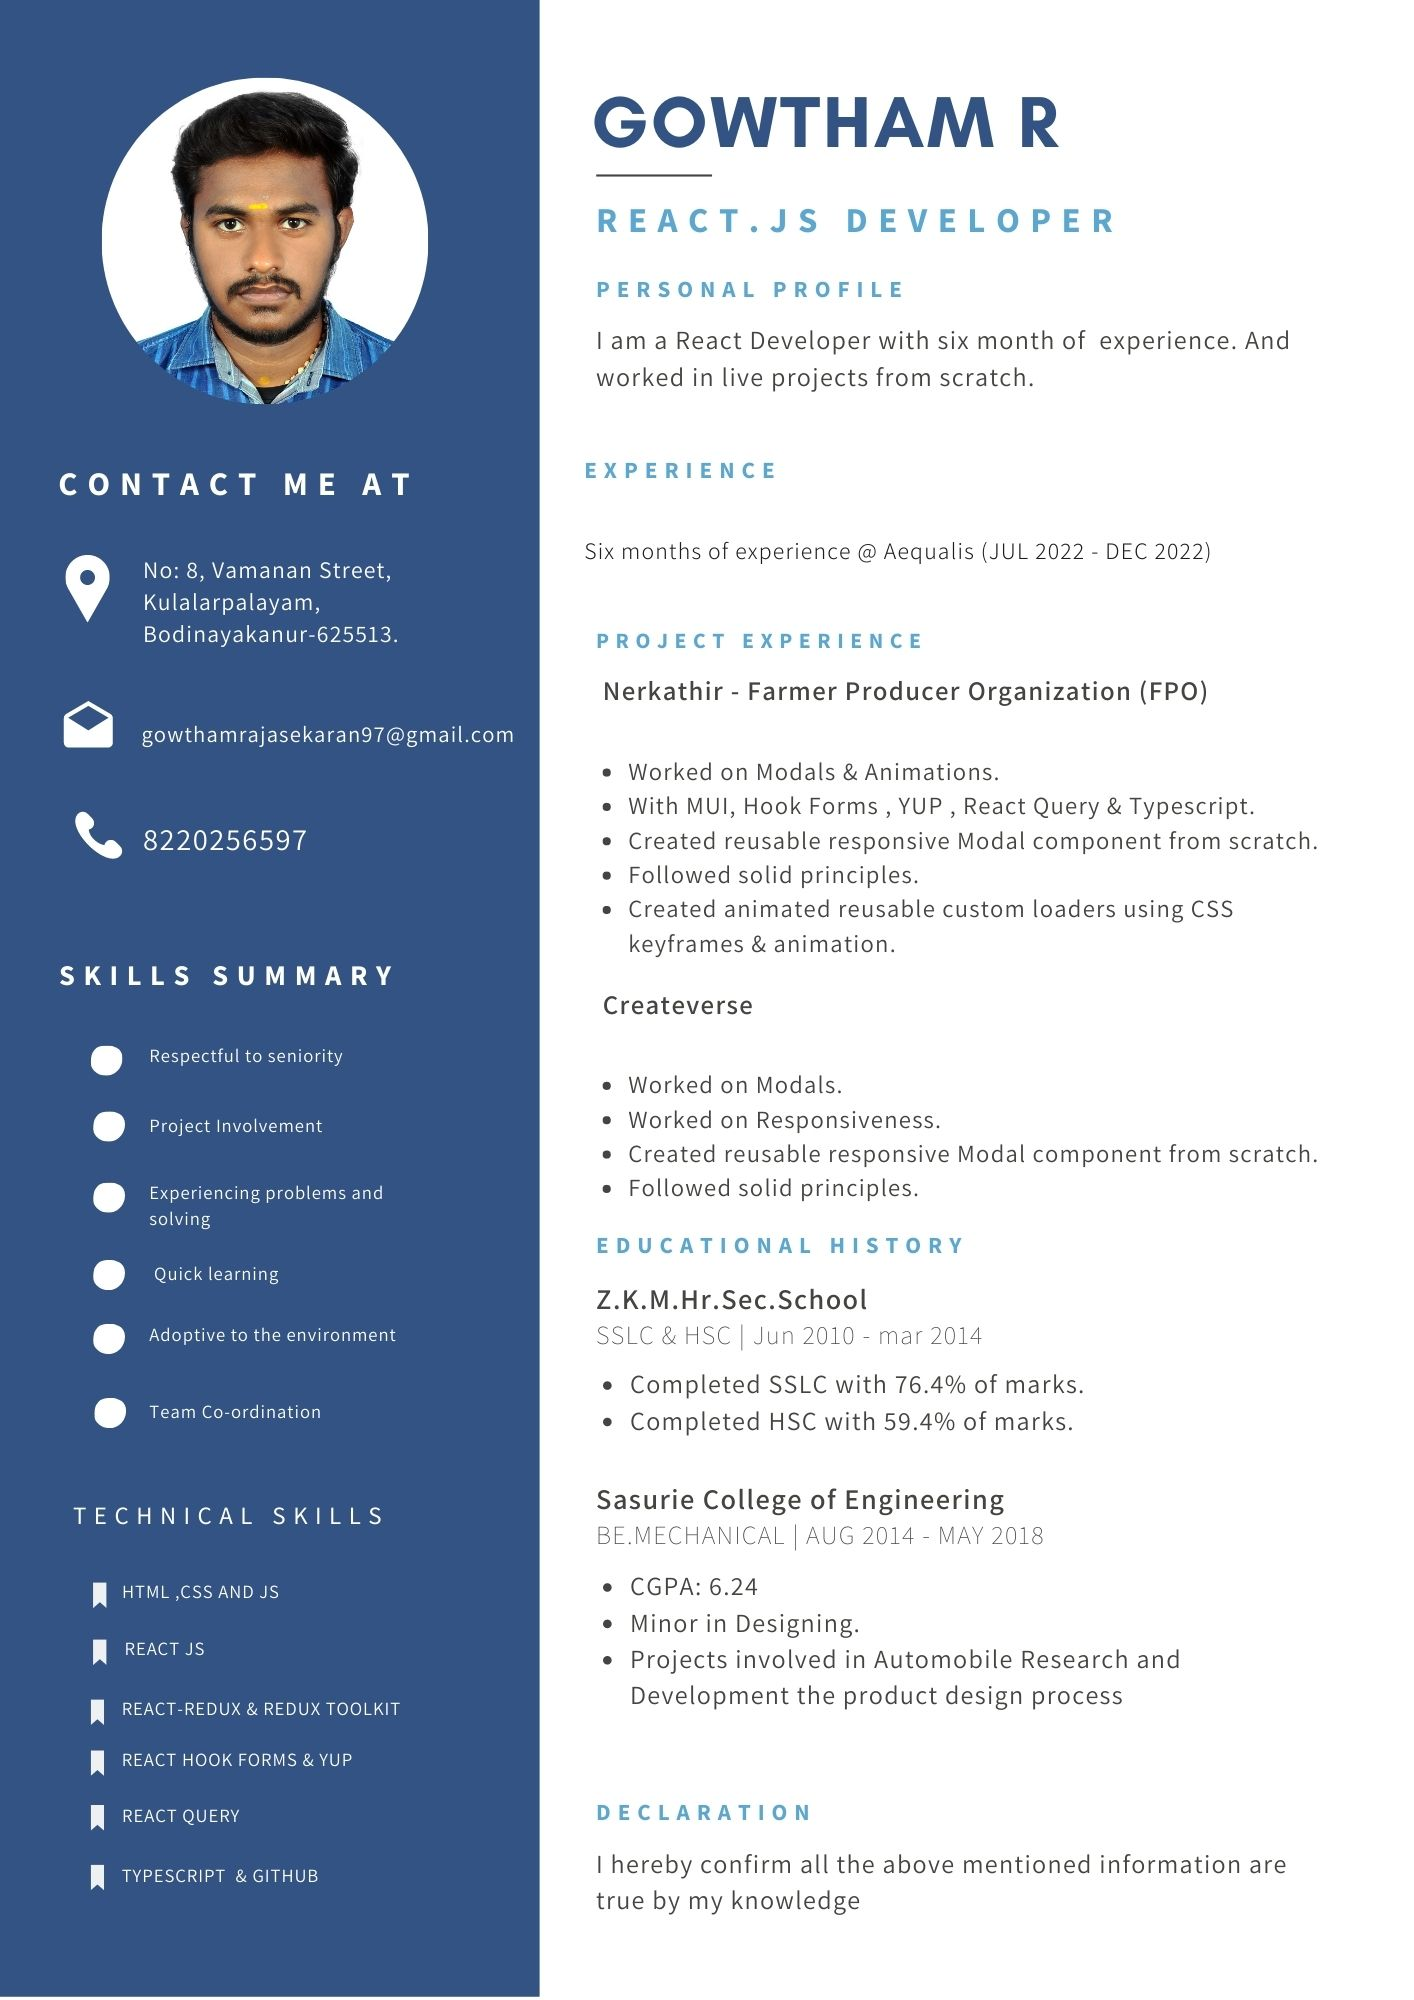
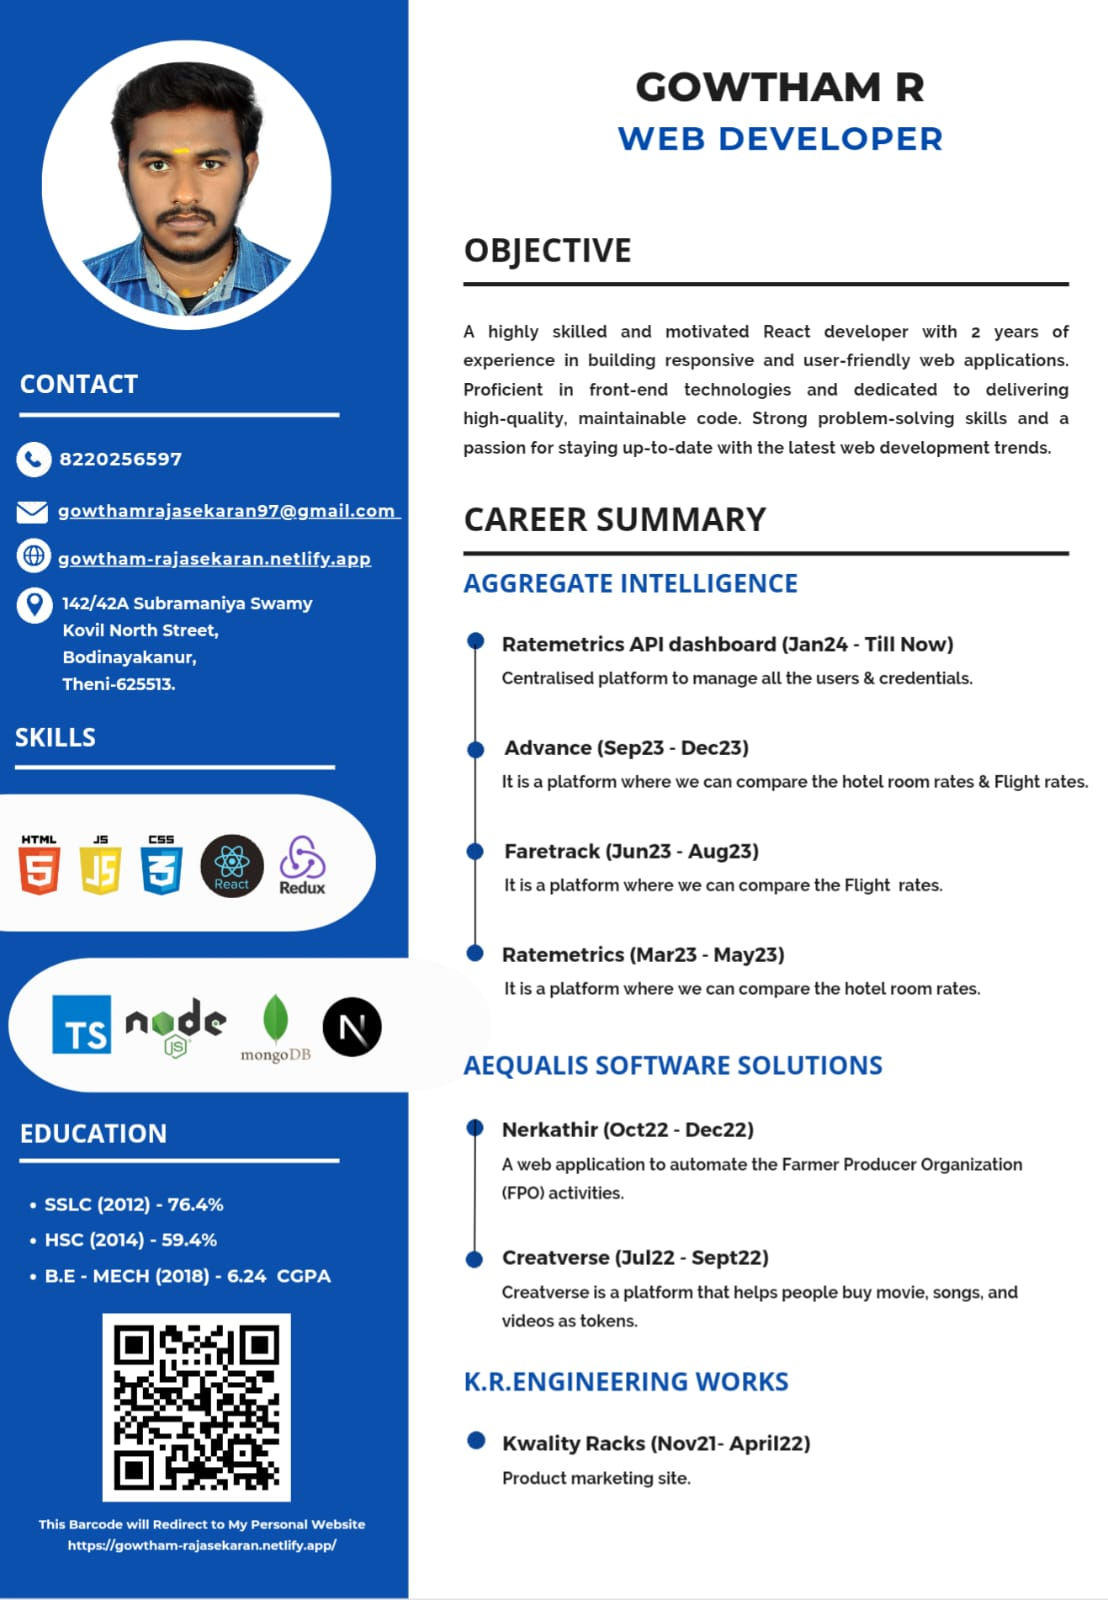
Resume updated.

diff --git a/src/utils/local-api/Index.tsx b/src/utils/local-api/Index.tsx
@@ -9,9 +9,9 @@ import html from "../../assets/techstack/htmlLogo.svg";
 import css from "../../assets/techstack/cssLogo.svg";
 import js from "../../assets/techstack/javascriptLogo.svg";
 import react from "../../assets/techstack/reactLogo.svg";
-import reactQuery from "../../assets/techstack/reactQueryLogo.svg";
-import reactRedux from "../../assets/techstack/reduxLogo.svg";
-import sass from "../../assets/techstack/sassLogo.svg";
+// import reactQuery from "../../assets/techstack/reactQueryLogo.svg";
+// import reactRedux from "../../assets/techstack/reduxLogo.svg";
+// import sass from "../../assets/techstack/sassLogo.svg";
 import styledComponents from "../../assets/techstack/styledComponentsLogo.png";
 import ts from "../../assets/techstack/typescript.jpg";
 import hookForms from "../../assets/techstack/hookfroms.jpg";

diff --git a/src/App.tsx b/src/App.tsx
@@ -1,3 +1,4 @@
+//@ts-ignore
 import { BrowserRouter, Navigate, Route, Routes } from "react-router-dom";
 import Footer from "./components/footer/Index";
 import Navbar from "./components/navbar/Index";
@@ -7,7 +8,7 @@ import Home from "./routes/Home";
 import Projects from "./routes/Projects";
 import { ToastContainer } from "./utils/toast/Index";
 import "react-toastify/dist/ReactToastify.css";
-import TechStack from "./components/teckstack/Index";
+// import TechStack from "./components/teckstack/Index";
 
 const App = () => {
   return (

diff --git a/src/components/home-content/Index.tsx b/src/components/home-content/Index.tsx
@@ -10,7 +10,7 @@ const HomeContent = () => {
 
   const handleResumeDownload = () => {
     let doc = new jsPDF("portrait", "px", "a4", false);
-    doc.addImage(Resume, "jpg", 10, 10, 450, 610);
+    doc.addImage(Resume, "jpg", 3.5, 11, 450, 610);
     doc.save("Gowtham_Resume.pdf");
   };
 

diff --git a/src/components/project-cards/ProjectCard.tsx b/src/components/project-cards/ProjectCard.tsx
@@ -1,4 +1,4 @@
-import { FC, useState } from "react";
+import { FC } from "react";
 import { FaGithub } from "react-icons/fa";
 import { IoNavigateSharp } from "react-icons/io5";
 import S from "./ProjectCard.Styled";
